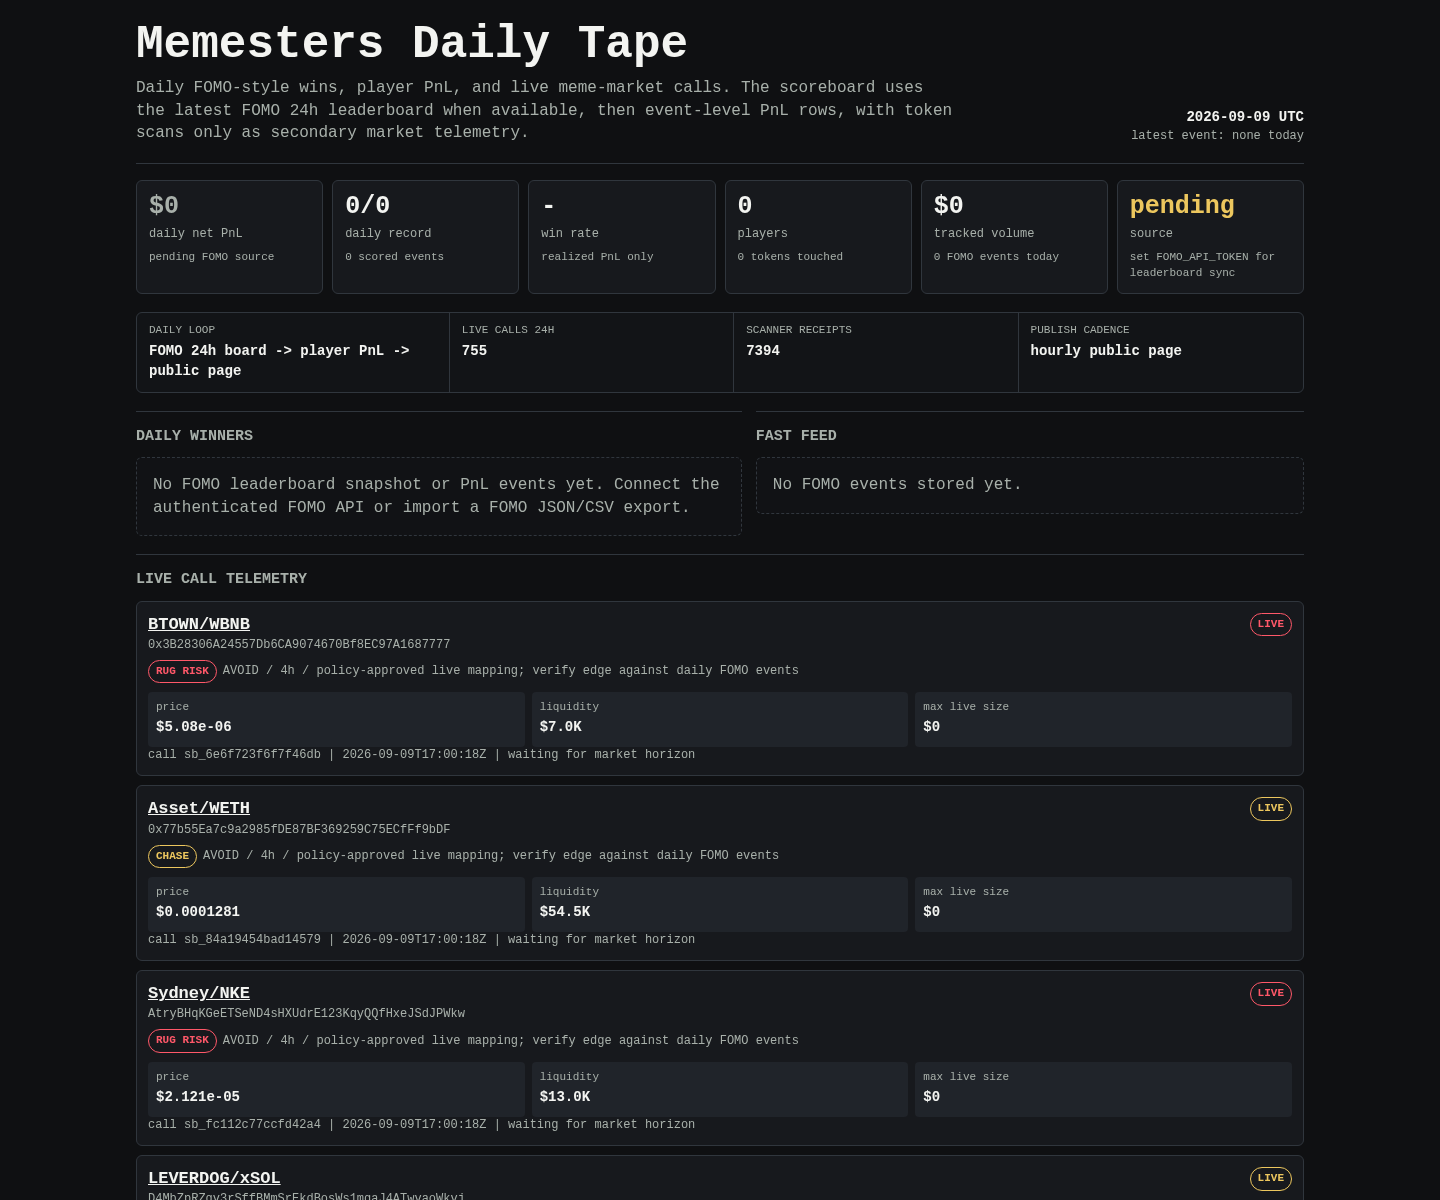
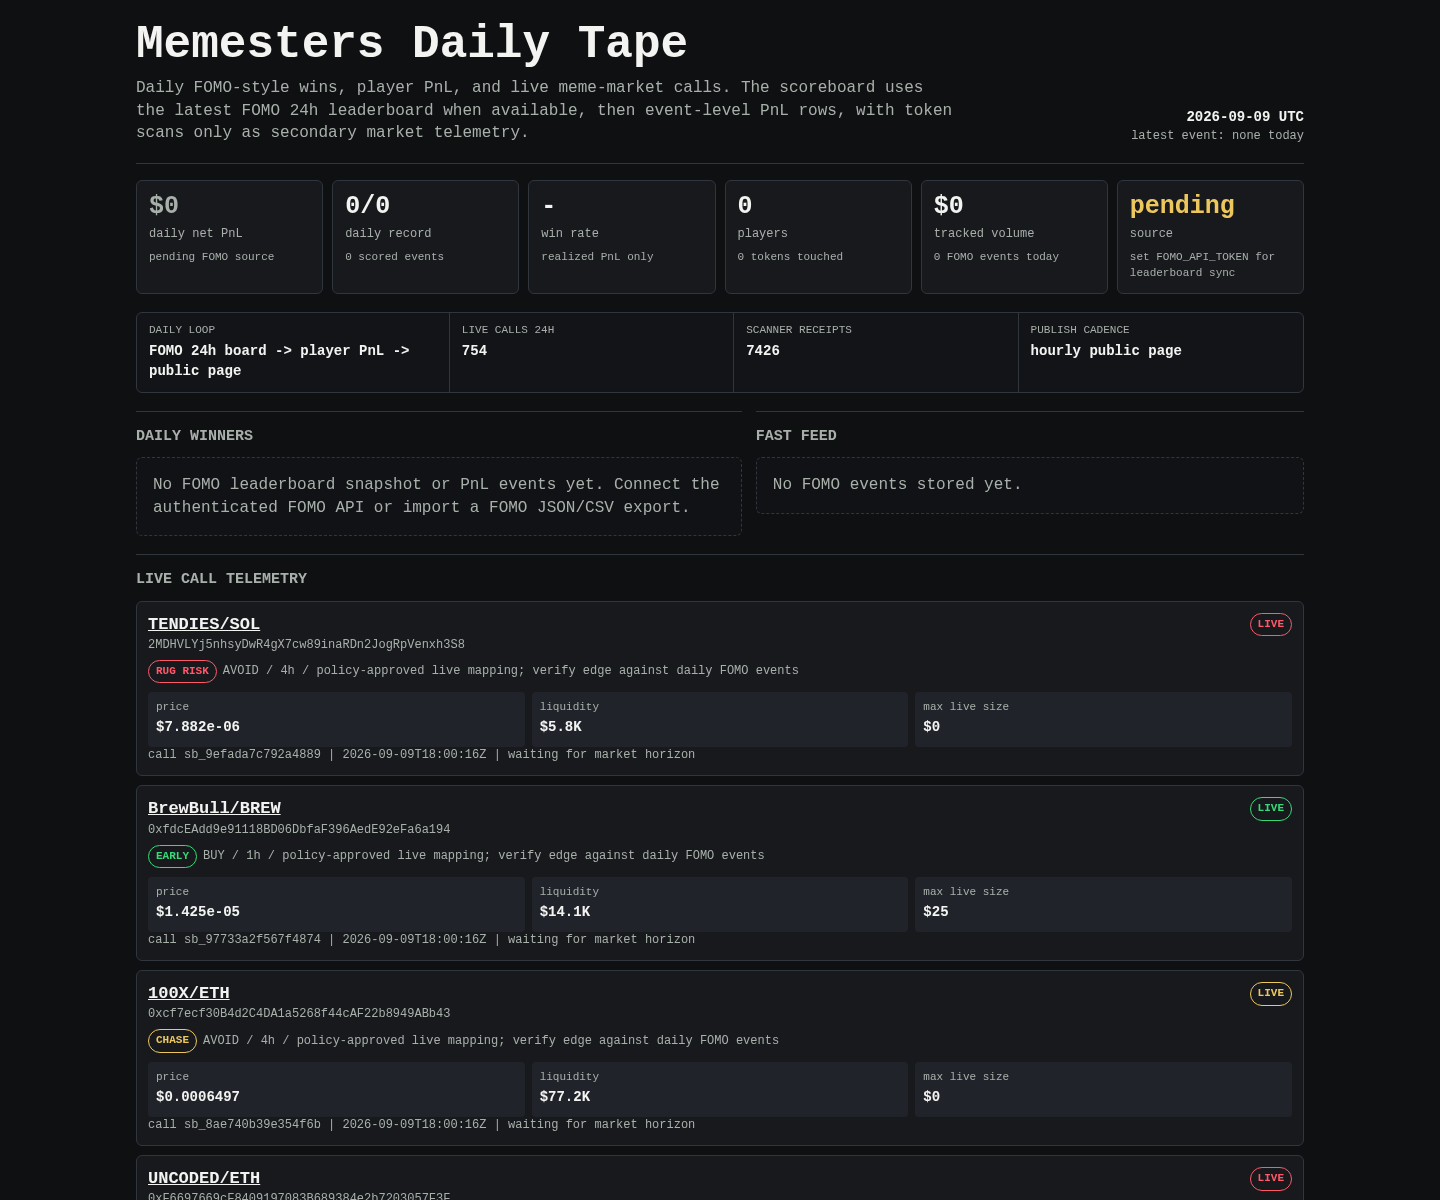
Update Memesters scoreboard

diff --git a/memesters/index.html b/memesters/index.html
@@ -149,8 +149,8 @@
 
     <div class="rail" aria-label="live operating loop">
       <div><span>daily loop</span><b>FOMO 24h board -> player PnL -> public page</b></div>
-      <div><span>live calls 24h</span><b>755</b></div>
-      <div><span>scanner receipts</span><b>7394</b></div>
+      <div><span>live calls 24h</span><b>754</b></div>
+      <div><span>scanner receipts</span><b>7426</b></div>
       <div><span>publish cadence</span><b>hourly public page</b></div>
     </div>
 
@@ -171,8 +171,8 @@
     <article class="receipt">
       <div class="receipt-head">
         <div>
-          <div class="pair"><a href="https://dexscreener.com/bsc/0xeaf8d40b670ebba1625d2f65a66424c3d733f60e">BTOWN/WBNB</a></div>
-          <div class="addr">0x3B28306A24557Db6CA9074670Bf8EC97A1687777</div>
+          <div class="pair"><a href="https://dexscreener.com/solana/afjcw4kqsuhvumkvprjfezhdtnpmcxk26vobjwbhvqya">TENDIES/SOL</a></div>
+          <div class="addr">2MDHVLYj5nhsyDwR4gX7cw89inaRDn2JogRpVenxh3S8</div>
           <div class="addr policy-line">
             <span class="badge rug-risk">RUG RISK</span>
             <span>AVOID / 4h / policy-approved live mapping; verify edge against daily FOMO events</span>
@@ -181,103 +181,19 @@
         <span class="badge rug-risk">LIVE</span>
       </div>
       <div class="receipt-grid">
-        <div class="kv"><span>price</span><b>$5.08e-06</b></div>
-        <div class="kv"><span>liquidity</span><b>$7.0K</b></div>
+        <div class="kv"><span>price</span><b>$7.882e-06</b></div>
+        <div class="kv"><span>liquidity</span><b>$5.8K</b></div>
         <div class="kv"><span>max live size</span><b>$0</b></div>
       </div>
-      <div class="outcomes">call sb_6e6f723f6f7f46db | 2026-09-09T17:00:18Z | waiting for market horizon</div>
+      <div class="outcomes">call sb_9efada7c792a4889 | 2026-09-09T18:00:16Z | waiting for market horizon</div>
     </article>
     
 
     <article class="receipt">
       <div class="receipt-head">
         <div>
-          <div class="pair"><a href="https://dexscreener.com/robinhood/0x8c435ad6f6251e553424ebee941cdc469143fe47">Asset/WETH</a></div>
-          <div class="addr">0x77b55Ea7c9a2985fDE87BF369259C75ECfFf9bDF</div>
-          <div class="addr policy-line">
-            <span class="badge chase">CHASE</span>
-            <span>AVOID / 4h / policy-approved live mapping; verify edge against daily FOMO events</span>
-          </div>
-        </div>
-        <span class="badge chase">LIVE</span>
-      </div>
-      <div class="receipt-grid">
-        <div class="kv"><span>price</span><b>$0.0001281</b></div>
-        <div class="kv"><span>liquidity</span><b>$54.5K</b></div>
-        <div class="kv"><span>max live size</span><b>$0</b></div>
-      </div>
-      <div class="outcomes">call sb_84a19454bad14579 | 2026-09-09T17:00:18Z | waiting for market horizon</div>
-    </article>
-    
-
-    <article class="receipt">
-      <div class="receipt-head">
-        <div>
-          <div class="pair"><a href="https://dexscreener.com/solana/6qsunbqj8qjdksneldsxtyrv8dwmvsueknpwtawz8cuc">Sydney/NKE</a></div>
-          <div class="addr">AtryBHqKGeETSeND4sHXUdrE123KqyQQfHxeJSdJPWkw</div>
-          <div class="addr policy-line">
-            <span class="badge rug-risk">RUG RISK</span>
-            <span>AVOID / 4h / policy-approved live mapping; verify edge against daily FOMO events</span>
-          </div>
-        </div>
-        <span class="badge rug-risk">LIVE</span>
-      </div>
-      <div class="receipt-grid">
-        <div class="kv"><span>price</span><b>$2.121e-05</b></div>
-        <div class="kv"><span>liquidity</span><b>$13.0K</b></div>
-        <div class="kv"><span>max live size</span><b>$0</b></div>
-      </div>
-      <div class="outcomes">call sb_fc112c77ccfd42a4 | 2026-09-09T17:00:18Z | waiting for market horizon</div>
-    </article>
-    
-
-    <article class="receipt">
-      <div class="receipt-head">
-        <div>
-          <div class="pair"><a href="https://dexscreener.com/solana/8trfpf9arkqvzichrouu3k5jujuxnkknbxpnrp6km6jo">LEVERDOG/xSOL</a></div>
-          <div class="addr">D4MbZpRZqv3rSffBMmSrEkdBosWs1mqaJ4ATwvaoWkvj</div>
-          <div class="addr policy-line">
-            <span class="badge chase">CHASE</span>
-            <span>AVOID / 4h / policy-approved live mapping; verify edge against daily FOMO events</span>
-          </div>
-        </div>
-        <span class="badge chase">LIVE</span>
-      </div>
-      <div class="receipt-grid">
-        <div class="kv"><span>price</span><b>$5.087e-05</b></div>
-        <div class="kv"><span>liquidity</span><b>$19.3K</b></div>
-        <div class="kv"><span>max live size</span><b>$0</b></div>
-      </div>
-      <div class="outcomes">call sb_646bfe5c18014273 | 2026-09-09T17:00:18Z | waiting for market horizon</div>
-    </article>
-    
-
-    <article class="receipt">
-      <div class="receipt-head">
-        <div>
-          <div class="pair"><a href="https://dexscreener.com/robinhood/0xb219088d27043bb92c6d0eb1d79e8993849ed5323f8b76dcd19e6a95babc9ff2">ARCT/SPY</a></div>
-          <div class="addr">0xe168F9904d9ea7BcF50716C4eF261fbD519cBbE9</div>
-          <div class="addr policy-line">
-            <span class="badge chase">CHASE</span>
-            <span>AVOID / 4h / policy-approved live mapping; verify edge against daily FOMO events</span>
-          </div>
-        </div>
-        <span class="badge chase">LIVE</span>
-      </div>
-      <div class="receipt-grid">
-        <div class="kv"><span>price</span><b>$0.0001381</b></div>
-        <div class="kv"><span>liquidity</span><b>$39.8K</b></div>
-        <div class="kv"><span>max live size</span><b>$0</b></div>
-      </div>
-      <div class="outcomes">call sb_f05b9a975de3450c | 2026-09-09T17:00:17Z | waiting for market horizon</div>
-    </article>
-    
-
-    <article class="receipt">
-      <div class="receipt-head">
-        <div>
-          <div class="pair"><a href="https://dexscreener.com/solana/hmx218tgc2h8c9orehlxf2hamlrlrjfukv8cqrywb2cf">Hoodlana/SOL</a></div>
-          <div class="addr">DAqZZvkxcWaR17cWvXoA7n3wKTuDPhUZWQEi6Chhpump</div>
+          <div class="pair"><a href="https://dexscreener.com/bsc/0x27702ae51befa25369dfa41e26a5f782e1ca4d5c">BrewBull/BREW</a></div>
+          <div class="addr">0xfdcEAdd9e91118BD06DbfaF396AedE92eFa6a194</div>
           <div class="addr policy-line">
             <span class="badge early">EARLY</span>
             <span>BUY / 1h / policy-approved live mapping; verify edge against daily FOMO events</span>
@@ -286,19 +202,19 @@
         <span class="badge early">LIVE</span>
       </div>
       <div class="receipt-grid">
-        <div class="kv"><span>price</span><b>$5.168e-05</b></div>
-        <div class="kv"><span>liquidity</span><b>$17.6K</b></div>
-        <div class="kv"><span>max live size</span><b>$168</b></div>
+        <div class="kv"><span>price</span><b>$1.425e-05</b></div>
+        <div class="kv"><span>liquidity</span><b>$14.1K</b></div>
+        <div class="kv"><span>max live size</span><b>$25</b></div>
       </div>
-      <div class="outcomes">call sb_b877e5dbcca24788 | 2026-09-09T17:00:17Z | waiting for market horizon</div>
+      <div class="outcomes">call sb_97733a2f567f4874 | 2026-09-09T18:00:16Z | waiting for market horizon</div>
     </article>
     
 
     <article class="receipt">
       <div class="receipt-head">
         <div>
-          <div class="pair"><a href="https://dexscreener.com/solana/cdtgte7maiqnjxgcpd32hs1alzwfkqjdbthgwfbofq9z">STKLYNX/SOL</a></div>
-          <div class="addr">B1EsntvpYGmZAjxD1DZEp7sxZR6LCdMNKzfJ9mnppump</div>
+          <div class="pair"><a href="https://dexscreener.com/robinhood/0x4d607d8b6a6985e930c797617a009597b29ba976fa40a353b7f13474ed0955cc">100X/ETH</a></div>
+          <div class="addr">0xcf7ecf30B4d2C4DA1a5268f44cAF22b8949ABb43</div>
           <div class="addr policy-line">
             <span class="badge chase">CHASE</span>
             <span>AVOID / 4h / policy-approved live mapping; verify edge against daily FOMO events</span>
@@ -307,19 +223,19 @@
         <span class="badge chase">LIVE</span>
       </div>
       <div class="receipt-grid">
-        <div class="kv"><span>price</span><b>$0.0002703</b></div>
-        <div class="kv"><span>liquidity</span><b>$43.7K</b></div>
+        <div class="kv"><span>price</span><b>$0.0006497</b></div>
+        <div class="kv"><span>liquidity</span><b>$77.2K</b></div>
         <div class="kv"><span>max live size</span><b>$0</b></div>
       </div>
-      <div class="outcomes">call sb_80ac8a41788f4b05 | 2026-09-09T17:00:17Z | waiting for market horizon</div>
+      <div class="outcomes">call sb_8ae740b39e354f6b | 2026-09-09T18:00:16Z | waiting for market horizon</div>
     </article>
     
 
     <article class="receipt">
       <div class="receipt-head">
         <div>
-          <div class="pair"><a href="https://dexscreener.com/solana/a1jfgp6tzk9bdzbwqdgzcrpmt5xhhjdyf1oetm8tu68r">WHALES/SOL</a></div>
-          <div class="addr">8kHikWnr5jsKXEJoruR9omqwXskmKTmW6RuSabzLpump</div>
+          <div class="pair"><a href="https://dexscreener.com/robinhood/0xb5052659c4dba6d9a5aa2e3ca5fa58cebdacd1f1f647139d335f3cec1a69635e">UNCODED/ETH</a></div>
+          <div class="addr">0xF6697669cF8409197083B689384e2b7203057F3F</div>
           <div class="addr policy-line">
             <span class="badge rug-risk">RUG RISK</span>
             <span>AVOID / 4h / policy-approved live mapping; verify edge against daily FOMO events</span>
@@ -328,19 +244,19 @@
         <span class="badge rug-risk">LIVE</span>
       </div>
       <div class="receipt-grid">
-        <div class="kv"><span>price</span><b>$3.816e-05</b></div>
-        <div class="kv"><span>liquidity</span><b>$14.9K</b></div>
+        <div class="kv"><span>price</span><b>$1.442e-05</b></div>
+        <div class="kv"><span>liquidity</span><b>$11.1K</b></div>
         <div class="kv"><span>max live size</span><b>$0</b></div>
       </div>
-      <div class="outcomes">call sb_5997bf15d4414624 | 2026-09-09T16:45:15Z | waiting for market horizon</div>
+      <div class="outcomes">call sb_c32b0becbce44b49 | 2026-09-09T18:00:16Z | waiting for market horizon</div>
     </article>
     
 
     <article class="receipt">
       <div class="receipt-head">
         <div>
-          <div class="pair"><a href="https://dexscreener.com/robinhood/0xabaafb29456cd11b8304fc49f0a69c98c78093e7ed277bbae851bd2aa84c0983">BOA/USDG</a></div>
-          <div class="addr">0xdc60b0c7614feA4a2264d24F3F64Cd8e48AB7fD4</div>
+          <div class="pair"><a href="https://dexscreener.com/solana/hszzwrhj12fud6gx57yli4zbfzx8269zhygoddm3tvjk">MARIE/SPX</a></div>
+          <div class="addr">9yzErCcHKpEkHAwV61yfQ4Fi24yR8s8TiPsy4gJkF1Tq</div>
           <div class="addr policy-line">
             <span class="badge chase">CHASE</span>
             <span>AVOID / 4h / policy-approved live mapping; verify edge against daily FOMO events</span>
@@ -349,19 +265,61 @@
         <span class="badge chase">LIVE</span>
       </div>
       <div class="receipt-grid">
-        <div class="kv"><span>price</span><b>$3.421e-05</b></div>
-        <div class="kv"><span>liquidity</span><b>$15.0K</b></div>
+        <div class="kv"><span>price</span><b>$3.026e-05</b></div>
+        <div class="kv"><span>liquidity</span><b>$19.5K</b></div>
         <div class="kv"><span>max live size</span><b>$0</b></div>
       </div>
-      <div class="outcomes">call sb_4f8dab22f6054532 | 2026-09-09T16:45:14Z | waiting for market horizon</div>
+      <div class="outcomes">call sb_6835dff63e8a4084 | 2026-09-09T18:00:16Z | waiting for market horizon</div>
     </article>
     
 
     <article class="receipt">
       <div class="receipt-head">
         <div>
-          <div class="pair"><a href="https://dexscreener.com/bsc/0xc7768c2cb3152d89b0d21d3f9fdd2f1ac35a60a7">VC/BNC4</a></div>
-          <div class="addr">0x36F01746A86639D0C3b6A850d328be1b634A4444</div>
+          <div class="pair"><a href="https://dexscreener.com/solana/izn7tapuja2v68bq4dcevoqcxugafzbrobkjlgf8ftc">LAPCAT/SOL</a></div>
+          <div class="addr">ETuT5bmSAbAqzmwcUjdJ4Bp9AzHk2Xw7fpp6vLyGpump</div>
+          <div class="addr policy-line">
+            <span class="badge early">EARLY</span>
+            <span>BUY / 1h / policy-approved live mapping; verify edge against daily FOMO events</span>
+          </div>
+        </div>
+        <span class="badge early">LIVE</span>
+      </div>
+      <div class="receipt-grid">
+        <div class="kv"><span>price</span><b>$0.0001401</b></div>
+        <div class="kv"><span>liquidity</span><b>$31.7K</b></div>
+        <div class="kv"><span>max live size</span><b>$381</b></div>
+      </div>
+      <div class="outcomes">call sb_041ebb67e4df4cd4 | 2026-09-09T18:00:16Z | waiting for market horizon</div>
+    </article>
+    
+
+    <article class="receipt">
+      <div class="receipt-head">
+        <div>
+          <div class="pair"><a href="https://dexscreener.com/bsc/0x7f4c607b9f34117b6e390593360b10f476d56521">BUDDY/BNC4</a></div>
+          <div class="addr">0x908Ab735cb9fb61d58a2E70840801604C92B7777</div>
+          <div class="addr policy-line">
+            <span class="badge rug-risk">RUG RISK</span>
+            <span>AVOID / 4h / policy-approved live mapping; verify edge against daily FOMO events</span>
+          </div>
+        </div>
+        <span class="badge rug-risk">LIVE</span>
+      </div>
+      <div class="receipt-grid">
+        <div class="kv"><span>price</span><b>$2.399e-06</b></div>
+        <div class="kv"><span>liquidity</span><b>$4.3K</b></div>
+        <div class="kv"><span>max live size</span><b>$0</b></div>
+      </div>
+      <div class="outcomes">call sb_1885854342b046ac | 2026-09-09T18:00:16Z | waiting for market horizon</div>
+    </article>
+    
+
+    <article class="receipt">
+      <div class="receipt-head">
+        <div>
+          <div class="pair"><a href="https://dexscreener.com/robinhood/0x2042fe9156d30a2670da591eab524ab999c974e9">GS/WETH</a></div>
+          <div class="addr">0xf7BDe8dBE34718697DcEBe9F1fBfc53f4c602998</div>
           <div class="addr policy-line">
             <span class="badge chase">CHASE</span>
             <span>AVOID / 4h / policy-approved live mapping; verify edge against daily FOMO events</span>
@@ -370,11 +328,53 @@
         <span class="badge chase">LIVE</span>
       </div>
       <div class="receipt-grid">
-        <div class="kv"><span>price</span><b>$0.000891</b></div>
-        <div class="kv"><span>liquidity</span><b>$90.1K</b></div>
+        <div class="kv"><span>price</span><b>$1.226e-05</b></div>
+        <div class="kv"><span>liquidity</span><b>$11.2K</b></div>
         <div class="kv"><span>max live size</span><b>$0</b></div>
       </div>
-      <div class="outcomes">call sb_7b6f8124ff824b07 | 2026-09-09T16:45:14Z | waiting for market horizon</div>
+      <div class="outcomes">call sb_566ef2f859034612 | 2026-09-09T18:00:15Z | waiting for market horizon</div>
+    </article>
+    
+
+    <article class="receipt">
+      <div class="receipt-head">
+        <div>
+          <div class="pair"><a href="https://dexscreener.com/robinhood/0x40d5bd4ad0a565bce9f72587140b0a33466d3b20f6f298061143c22420503520">TRUMP/DJT</a></div>
+          <div class="addr">0x2a0Ec275830ae51F4f5358542e1316e69Ec03701</div>
+          <div class="addr policy-line">
+            <span class="badge chase">CHASE</span>
+            <span>AVOID / 4h / policy-approved live mapping; verify edge against daily FOMO events</span>
+          </div>
+        </div>
+        <span class="badge chase">LIVE</span>
+      </div>
+      <div class="receipt-grid">
+        <div class="kv"><span>price</span><b>$9.34e-06</b></div>
+        <div class="kv"><span>liquidity</span><b>$8.1K</b></div>
+        <div class="kv"><span>max live size</span><b>$0</b></div>
+      </div>
+      <div class="outcomes">call sb_2f5a5b621fe043bc | 2026-09-09T17:45:14Z | waiting for market horizon</div>
+    </article>
+    
+
+    <article class="receipt">
+      <div class="receipt-head">
+        <div>
+          <div class="pair"><a href="https://dexscreener.com/robinhood/0x3bf2315e4da76febdb2c717246b60a1847b9304bbc9004aca252a1afc9087ba3">DART/ETH</a></div>
+          <div class="addr">0x70A91adfb732C4c20e31a288dBe7EBd82a6E7B92</div>
+          <div class="addr policy-line">
+            <span class="badge rug-risk">RUG RISK</span>
+            <span>AVOID / 4h / policy-approved live mapping; verify edge against daily FOMO events</span>
+          </div>
+        </div>
+        <span class="badge rug-risk">LIVE</span>
+      </div>
+      <div class="receipt-grid">
+        <div class="kv"><span>price</span><b>$2.764e-05</b></div>
+        <div class="kv"><span>liquidity</span><b>$15.4K</b></div>
+        <div class="kv"><span>max live size</span><b>$0</b></div>
+      </div>
+      <div class="outcomes">call sb_88c87a1a7ccd4df6 | 2026-09-09T17:45:14Z | waiting for market horizon</div>
     </article>
     
     </section>
